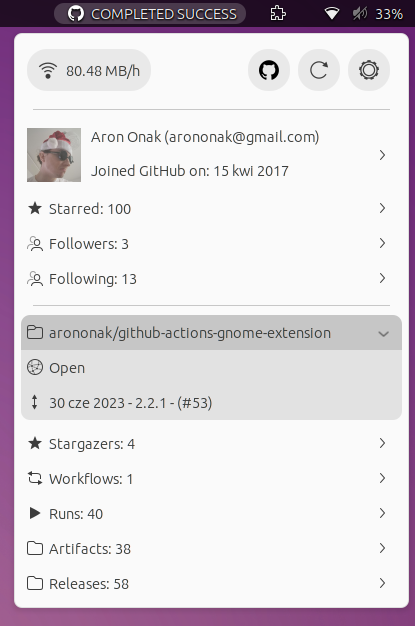
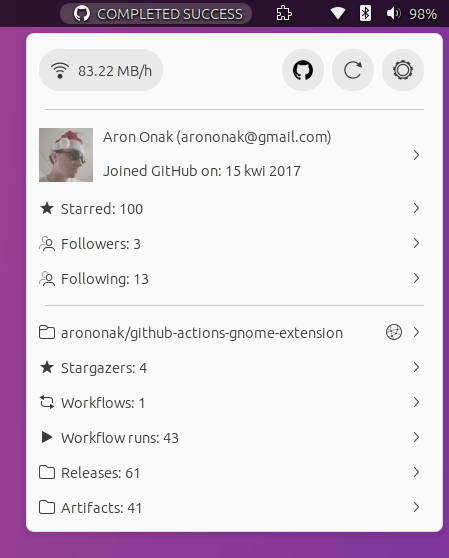
PopupMenu refactor

diff --git a/github-actions@arononak.github.io/status_bar_indicator.js b/github-actions@arononak.github.io/status_bar_indicator.js
@@ -16,9 +16,23 @@ const _ = ExtensionUtils.gettext;
 var LOADING_TEXT = 'Loading';
 var NOT_LOGGED_IN_TEXT = 'Not logged in';
 
-function createPopupImageMenuItem(text, iconName, callback) {
-    const item = new PopupMenu.PopupImageMenuItem(text, iconName);
-    item.connect('activate', () => callback());
+function createPopupImageMenuItem(text, startIconName, itemCallback, endIconName, endIconCallback) {
+    const item = new PopupMenu.PopupImageMenuItem(text, startIconName);
+    item.connect('activate', () => itemCallback());
+
+    if (endIconName != null) {
+        const icon = new IconButton(endIconName, () => endIconCallback())
+        const box = new St.BoxLayout({
+            style_class: 'github-actions-top-box',
+            vertical: false,
+            x_expand: true,
+            x_align: Clutter.ActorAlign.END,
+            y_align: Clutter.ActorAlign.CENTER,
+        });
+        box.add(icon);
+        item.insert_child_at_index(box, 100);
+    }
+
     return item;
 }
 
@@ -35,7 +49,7 @@ function createRoundButton({ icon, iconName }) {
 
 const ExpandedMenuItem = GObject.registerClass(
     class ExpandedMenuItem extends PopupMenu.PopupSubMenuMenuItem {
-        constructor(iconName, text) {
+        constructor(startIconName, text, endIconName, endIconCallback) {
             super('');
 
             this.menuBox = new St.BoxLayout({ vertical: true, style_class: 'menu-box' });
@@ -48,12 +62,53 @@ const ExpandedMenuItem = GObject.registerClass(
 
             this.iconContainer = new St.Widget({ style_class: 'popup-menu-icon-container' });
             this.insert_child_at_index(this.iconContainer, 0);
-
-            this.icon = new St.Icon({ icon_name: iconName, style_class: 'popup-menu-icon' });
+            this.icon = new St.Icon({ icon_name: startIconName, style_class: 'popup-menu-icon' });
             this.iconContainer.add_child(this.icon);
+
+            if (endIconName != null) {
+                const endIcon = new IconButton(endIconName, () => endIconCallback())
+                const box = new St.BoxLayout({
+                    style_class: 'github-actions-top-box',
+                    vertical: false,
+                    x_expand: true,
+                    x_align: Clutter.ActorAlign.END,
+                    y_align: Clutter.ActorAlign.CENTER,
+                });
+                box.add(endIcon);
+                this.insert_child_at_index(box, 5);
+            }
+        }
+
+        submitItems(items) {
+            this.menuBox.remove_all_children();
+
+            items.forEach((i) => {
+                this.menuBox.add_actor(createPopupImageMenuItem(i['text'], i['iconName'], i['callback']));
+            });
+        }
+
+        setHeaderItemText(text) {
+            this.label.text = text;
         }
     }
 );
+
+var IconButton = class extends St.Button {
+    static {
+        GObject.registerClass(this);
+    }
+
+    constructor(iconName, callback) {
+        super();
+        this.connect('clicked', callback);
+        this.set_can_focus(true);
+        this.set_child(new St.Icon({ style_class: 'popup-menu-icon', iconName }));
+    }
+
+    setIcon(icon) {
+        this.child.set_icon_name(icon);
+    }
+};
 
 var StatusBarIndicator = class StatusBarIndicator extends PanelMenu.Button {
     _init() {
@@ -203,12 +258,8 @@ var StatusBarIndicator = class StatusBarIndicator extends PanelMenu.Button {
         this.menu.addMenuItem(new PopupMenu.PopupSeparatorMenuItem());
 
         /// Repository
-        this.repositoryMenuItem = new ExpandedMenuItem('system-file-manager-symbolic', LOADING_TEXT);
+        this.repositoryMenuItem = new ExpandedMenuItem('system-file-manager-symbolic', LOADING_TEXT, 'applications-internet-symbolic', () => utils.openUrl(this.repositoryUrl));
         this.menu.addMenuItem(this.repositoryMenuItem);
-
-        /// Repository Open
-        this.openRepositoryItem = createPopupImageMenuItem('Open', 'applications-internet-symbolic', () => utils.openUrl(this.repositoryUrl));
-        this.repositoryMenuItem.menuBox.add_actor(this.openRepositoryItem);
 
         /// Repository Last commit
         this.infoItem = createPopupImageMenuItem(LOADING_TEXT, 'object-flip-vertical-symbolic', () => utils.openUrl(this.workflowUrl));
@@ -226,13 +277,13 @@ var StatusBarIndicator = class StatusBarIndicator extends PanelMenu.Button {
         this.runsMenuItem = new ExpandedMenuItem('media-playback-start-symbolic', LOADING_TEXT);
         this.menu.addMenuItem(this.runsMenuItem);
 
-        /// Artifacts
-        this.artifactsMenuItem = new ExpandedMenuItem('folder-visiting-symbolic', LOADING_TEXT);
-        this.menu.addMenuItem(this.artifactsMenuItem);
-
         /// Releases
         this.releasesMenuItem = new ExpandedMenuItem('folder-visiting-symbolic', LOADING_TEXT);
         this.menu.addMenuItem(this.releasesMenuItem);
+
+        /// Artifacts
+        this.artifactsMenuItem = new ExpandedMenuItem('folder-visiting-symbolic', LOADING_TEXT);
+        this.menu.addMenuItem(this.artifactsMenuItem);
     }
 
     refreshTransfer(settings, isLogged) {
@@ -290,6 +341,8 @@ var StatusBarIndicator = class StatusBarIndicator extends PanelMenu.Button {
         this.infoItem.label.text = date + ' - ' + displayTitle + ' - (#' + runNumber + ')';
     }
 
+    // User ------------------------------------------------------------
+
     setUser(user) {
         let userEmail;
         let userName;
@@ -339,31 +392,120 @@ var StatusBarIndicator = class StatusBarIndicator extends PanelMenu.Button {
         this.sharedStorageItem.label.text = parsedSharedStorage == null ? 'Not logged' : parsedSharedStorage;
     }
 
-    setWorkflows(workflows) {
-        this.workflowsMenuItem.menuBox.remove_all_children();
-        this.workflowsMenuItem.label.text = 'Workflows: ' + workflows.length;
+    setUserStarred(starred) {
+        function toItem(e) {
+            return {
+                "iconName": 'starred-symbolic',
+                "text": e['full_name'],
+                "callback": () => utils.openUrl(e['html_url']),
+            };
+        }
 
-        workflows.forEach((element) => {
-            const item = new PopupMenu.PopupImageMenuItem(element['name'], 'mail-send-receive-symbolic');
-            item.connect('activate', () => utils.openUrl(element['html_url']));
-            this.workflowsMenuItem.menuBox.add_actor(item);
-        });
+        this.starredMenuItem.setHeaderItemText('Starred: ' + starred.length);
+        this.starredMenuItem.submitItems(starred.map(e => toItem(e)));
+    }
+
+    setUserFollowers(followers) {
+        function toItem(e) {
+            return {
+                "iconName": 'system-users-symbolic',
+                "text": e['login'],
+                "callback": () => utils.openUrl(e['html_url']),
+            };
+        }
+
+        this.followersMenuItem.setHeaderItemText('Followers: ' + followers.length);
+        this.followersMenuItem.submitItems(followers.map(e => toItem(e)));
+    }
+
+    setUserFollowing(following) {
+        function toItem(e) {
+            return {
+                "iconName": 'system-users-symbolic',
+                "text": e['login'],
+                "callback": () => utils.openUrl(e['html_url']),
+            };
+        }
+
+        this.followingMenuItem.setHeaderItemText('Following: ' + following.length);
+        this.followingMenuItem.submitItems(following.map(e => toItem(e)));
+    }
+
+    /// Separator ------------------------------------------------------
+
+    setStargazers(stargazers) {
+        function toItem(e) {
+            return {
+                "iconName": 'starred-symbolic',
+                "text": e['login'],
+                "callback": () => utils.openUrl(e['html_url']),
+            };
+        }
+
+        this.stargazersMenuItem.setHeaderItemText('Stargazers: ' + stargazers.length);
+        this.stargazersMenuItem.submitItems(stargazers.map(e => toItem(e)));
+    }
+
+    setWorkflows(workflows) {
+        function toItem(e) {
+            return {
+                "iconName": 'mail-send-receive-symbolic',
+                "text": e['name'],
+                "callback": () => utils.openUrl(e['html_url']),
+            };
+        }
+
+        this.workflowsMenuItem.setHeaderItemText('Workflows: ' + workflows.length);
+        this.workflowsMenuItem.submitItems(workflows.map(e => toItem(e)));
+    }
+
+    setRuns(runs) {
+        function toItem(e) {
+            const conclusion = e['conclusion'];
+
+            function conclusionIcon(conclusion) {
+                if (conclusion == 'success') {
+                    return 'emblem-default';
+                } else if (conclusion == 'failure') {
+                    return 'emblem-unreadable';
+                } else {
+                    return 'emblem-synchronizing';
+                }
+            }
+
+            return {
+                "iconName": conclusionIcon(conclusion),
+                "text": e['display_title'],
+                "callback": () => utils.openUrl(e['html_url']),
+            };
+        }
+
+        this.runsMenuItem.setHeaderItemText('Workflow runs: ' + runs.length);
+        this.runsMenuItem.submitItems(runs.map(e => toItem(e)));
+    }
+
+    setReleases(releases) {
+        function toItem(e) {
+            return {
+                "iconName": 'folder-visiting-symbolic',
+                "text": e['name'],
+                "callback": () => utils.openUrl(e['html_url']),
+            };
+        }
+
+        this.releasesMenuItem.setHeaderItemText('Releases: ' + releases.length);
+        this.releasesMenuItem.submitItems(releases.map(e => toItem(e)));
     }
 
     setArtifacts(artifacts) {
-        this.artifactsMenuItem.menuBox.remove_all_children();
-        this.artifactsMenuItem.label.text = 'Artifacts: ' + artifacts.length;
+        function toItem(e) {
+            const date = (new Date(e['created_at'])).toLocaleFormat('%d %b %Y');
+            const size = utils.bytesToString(e['size_in_bytes']);
+            const filename = e['name'];
+            const downloadUrl = e['archive_download_url'];
+            const labelName = date + ' - ' + filename + ' - (' + size + ')' + (e['expired'] == true ? ' - expired' : '');
 
-        artifacts.forEach((element) => {
-            const date = (new Date(element['created_at'])).toLocaleFormat('%d %b %Y');
-            const size = utils.bytesToString(element['size_in_bytes']);
-            const filename = element['name'];
-            const downloadUrl = element['archive_download_url'];
-
-            const labelName = date + ' - ' + filename + ' - (' + size + ')' + (element['expired'] == true ? ' - expired' : '');
-
-            const item = new PopupMenu.PopupImageMenuItem(labelName, 'folder-visiting-symbolic');
-            item.connect('activate', () => {
+            function callback() {
                 repository.downloadArtifact(downloadUrl, filename).then(success => {
                     try {
                         if (success === true) {
@@ -375,86 +517,16 @@ var StatusBarIndicator = class StatusBarIndicator extends PanelMenu.Button {
                         logError(e);
                     }
                 });
-
-            });
-            this.artifactsMenuItem.menuBox.add_actor(item);
-        });
-    }
-
-    setStargazers(stargazers) {
-        this.stargazersMenuItem.menuBox.remove_all_children();
-        this.stargazersMenuItem.label.text = 'Stargazers: ' + stargazers.length;
-
-        stargazers.forEach((element) => {
-            const item = new PopupMenu.PopupImageMenuItem(element['login'], 'starred-symbolic');
-            item.connect('activate', () => utils.openUrl(element['html_url']));
-            this.stargazersMenuItem.menuBox.add_actor(item);
-        });
-    }
-
-    setRuns(runs) {
-        this.runsMenuItem.menuBox.remove_all_children();
-        this.runsMenuItem.label.text = 'Runs: ' + runs.length;
-
-        runs.forEach((element) => {
-            const conclusion = element['conclusion'];
-
-            let iconName;
-            if (conclusion == 'success') {
-                iconName = 'emblem-default'
-            } else if (conclusion == 'failure') {
-                iconName = 'emblem-unreadable';
-            } else {
-                iconName = 'emblem-synchronizing';
             }
 
-            const item = new PopupMenu.PopupImageMenuItem(element['display_title'], iconName);
-            item.connect('activate', () => utils.openUrl(element['html_url']));
-            this.runsMenuItem.menuBox.add_actor(item);
-        });
-    }
+            return {
+                "iconName": 'folder-visiting-symbolic',
+                "text": labelName,
+                "callback": () => callback(),
+            };
+        }
 
-    setUserStarred(starred) {
-        this.starredMenuItem.menuBox.remove_all_children();
-        this.starredMenuItem.label.text = 'Starred: ' + starred.length;
-
-        starred.forEach((element) => {
-            const item = new PopupMenu.PopupImageMenuItem(element['full_name'], 'starred-symbolic');
-            item.connect('activate', () => utils.openUrl(element['html_url']));
-            this.starredMenuItem.menuBox.add_actor(item);
-        });
-    }
-
-    setUserFollowers(followers) {
-        this.followersMenuItem.menuBox.remove_all_children();
-        this.followersMenuItem.label.text = 'Followers: ' + followers.length;
-
-        followers.forEach((element) => {
-            const item = new PopupMenu.PopupImageMenuItem(element['login'], 'system-users-symbolic');
-            item.connect('activate', () => utils.openUrl(element['html_url']));
-            this.followersMenuItem.menuBox.add_actor(item);
-        });
-    }
-
-    setUserFollowing(following) {
-        this.followingMenuItem.menuBox.remove_all_children();
-        this.followingMenuItem.label.text = 'Following: ' + following.length;
-
-        following.forEach((element) => {
-            const item = new PopupMenu.PopupImageMenuItem(element['login'], 'system-users-symbolic');
-            item.connect('activate', () => utils.openUrl(element['html_url']));
-            this.followingMenuItem.menuBox.add_actor(item);
-        });
-    }
-
-    setReleases(releases) {
-        this.releasesMenuItem.menuBox.remove_all_children();
-        this.releasesMenuItem.label.text = 'Releases: ' + releases.length;
-
-        releases.forEach((element) => {
-            const item = new PopupMenu.PopupImageMenuItem(element['name'], 'folder-visiting-symbolic');
-            item.connect('activate', () => utils.openUrl(element['html_url']));
-            this.releasesMenuItem.menuBox.add_actor(item);
-        });
+        this.artifactsMenuItem.setHeaderItemText('Artifacts: ' + artifacts.length);
+        this.artifactsMenuItem.submitItems(artifacts.map(e => toItem(e)));
     }
 };
